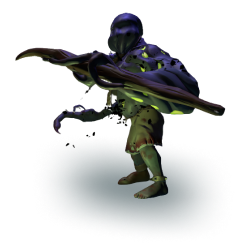
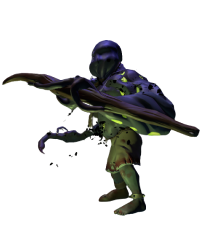
update page font

diff --git a/src/components/sections/Roadmap/Roadmap.tsx b/src/components/sections/Roadmap/Roadmap.tsx
@@ -62,13 +62,13 @@ const road: {year: string, items: IRoad[]}[] = [
 const Roadmap = () => {
   return (
     <div data-aos="fade-up" className="flex flex-col justify-center w-full my-24 px-4 md:pl-0" id={HeaderLink.ROADMAP}>
-      <Text type="h2" className="text-center">Roadmap</Text>
+      <Text type="h2" className="text-center" font="stoke">Roadmap</Text>
       <div className={styles.container + " flex mt-10 w-full"}>
         {road.map(({year, items}, i) => (
           <div key={i} className="mb-14 flex flex-col items-start self-start w-full md:w-auto">
             <div className="flex items-center">
               <div className={styles.line} style={{transform: 'rotate(180deg)'}}/>
-              <Text type="h4" className="mx-4">{year}</Text>
+              <Text type="h4" className="mx-4" font="stoke">{year}</Text>
               <div className={styles.line}/>
             </div>
             {items.map((item, j) => (
@@ -79,9 +79,9 @@ const Roadmap = () => {
                   </div>
                 </div>
                 <div className="flex items-baseline ">
-                  <Text type="h5" fontWeight={700} color="#8A978C" className="mr-1 max-w-full lg:max-w-sm xl:max-w-md">
+                  <Text type="h5" fontWeight={700} font="stoke" color="#8A978C" className="mr-1 max-w-full lg:max-w-sm xl:max-w-md">
                     {item.step}
-                    <Text fontWeight={400} color="#FFFFFF" isSpan={true}>— {item.description}</Text>
+                    <Text fontWeight={400} font="poppins" color="#FFFFFF" isSpan={true}>— {item.description}</Text>
                   </Text>
                 </div>
               </div>

diff --git a/src/components/sections/Team/Team.tsx b/src/components/sections/Team/Team.tsx
@@ -26,7 +26,7 @@ const data: ITeamMember[] = [
 const Team = () => {
   return (
     <div data-aos="fade-up" className="flex flex-col justify-start w-full pb-36 huge:pb-20" id={HeaderLink.TEAM}>
-      <Text type="h2" className="w-full justify-center text-center mb-10">Team</Text>
+      <Text type="h2" className="w-full justify-center text-center mb-10" font="stoke">Team</Text>
       <div className="flex sm:flex-wrap justify-center md:justify-around  xl:justify-center mx-auto flex-col w-full items-center sm:flex-row">
         {data.map((item, i) => (
           <div key={i} className="flex flex-col w-80 md:w-48 xl:w-52 md:self-start items-center text-center mb-10 sm:mx-2">
@@ -38,9 +38,9 @@ const Team = () => {
                 </a>
               )}
             </div>
-            <Text type="h4" className="mb-2 uppercase font-bold">{item.name}</Text>
-            <Text type="h5" className="mb-2 flex justify-start ">{item.role}</Text>
-            <Text fontSize={"0.8125rem"} lineHeight="1.25rem" color="white" className="min-h-20 md:h-40">{item.description}</Text>
+            <Text type="h4" className="mb-2 uppercase font-bold" font="stoke">{item.name}</Text>
+            <Text type="h5" className="mb-2 flex justify-start " font="stoke">{item.role}</Text>
+            <Text fontSize={"0.8125rem"} lineHeight="1.25rem" color="white" font="poppins" className="min-h-20 md:h-40">{item.description}</Text>
           </div>
         ))}
       </div>

diff --git a/src/components/sections/Roadmap/styles.module.css b/src/components/sections/Roadmap/styles.module.css
@@ -37,11 +37,10 @@
 .line {
     width: 46px;
     height: 3px;
-    background: -webkit-gradient(linear, left top, right top, color-stop(0%, #8A978C), color-stop(100%, #000000));
-    background: -moz-linear-gradient(left, #8A978C 0%, #000000 100%);
-    background: -webkit-linear-gradient(left, #8A978C 0%, #000000 100%);
-    background: -o-linear-gradient(left, #8A978C 0%, #000000 100%);
-    background: -ms-linear-gradient(left, #8A978C 0%, #000000 100%);
-    background: linear-gradient(to right, #8A978C 0%, #000000 100%);
+    background: -webkit-gradient(linear, left top, right top, color-stop(0%, #35CFD5), color-stop(100%, #0D1420));
+    background: -moz-linear-gradient(left, #35CFD5 0%, #0D1420 100%);
+    background: -webkit-linear-gradient(left, #35CFD5 0%, #0D1420 100%);
+    background: -o-linear-gradient(left, #35CFD5 0%, #0D1420 100%);
+    background: -ms-linear-gradient(left, #35CFD5 0%, #0D1420 100%);
+    background: linear-gradient(to right, #35CFD5 0%, #0D1420 100%);
 }
-

diff --git a/src/components/sections/ArmySwiper/ArmySwiper.tsx b/src/components/sections/ArmySwiper/ArmySwiper.tsx
@@ -45,11 +45,11 @@ const ArmySwiper = () => {
       className={styles.swiper + " max-w-full"}
     >
       {army.map((monster, i) => (
-        <SwiperSlide className={styles.slide}>
+        <SwiperSlide className={styles.slide + " w-1/6"}>
           <div className={styles.monster_card}>
             <div key={i} className= {styles.card_inner + " flex flex-col items-center justify-center"}>
               <div className={styles.img_frame}>
-                <img className={styles.img + " absolute"} src={monster.src} />
+                <img className={styles.img + " absolute "} src={monster.src} />
               </div>
               <Text type="h5" font="stoke" className="text-center uppercase">
                 {monster.title}

diff --git a/src/components/sections/Partners/Partners.tsx b/src/components/sections/Partners/Partners.tsx
@@ -12,7 +12,7 @@ const data = [
 const Partners = () => {
   return (
     <div data-aos="fade-up" className="flex flex-col justify-start w-full px-12 py-5" id={HeaderLink.PARTNERS}>
-      <Text type="h2" className="w-full justify-center text-center mb-10">Partners</Text>
+      <Text type="h2" className="w-full justify-center text-center mb-10" font="stoke">Partners</Text>
       <div className="flex w-full justify-center flex-col items-center md:flex-row">
         {data.map((item, i) => (
           <a href={item.url} key={i} target="_blank" className={styles.root + " flex flex-col px-4 py-4 w-80 md:w-64 md:w-72 mb-10 h-24 md:h-auto md:self-stretch" + (i === 0 ? ' ' : ' md:ml-6 lg:ml-12')}>

diff --git a/src/components/sections/ArmySwiper/styles.module.css b/src/components/sections/ArmySwiper/styles.module.css
@@ -5,7 +5,7 @@
 }
 
 .img {
-    top: 40%;
+    top: 45%;
     left: 50%;
     transform: translate(-50%,-50%);
 }
@@ -40,11 +40,13 @@
 
 .slide:hover {
     opacity: 1;
+    z-index: 30;
 }
 
 .swiper {
     overflow: unset !important;
  
 }
+
 
 

diff --git a/src/components/common/Text/Text.tsx b/src/components/common/Text/Text.tsx
@@ -7,7 +7,7 @@ interface IProps {
   onClick?(): void;
   isLink?: boolean;
   isSpan?: boolean;
-  font?: "stoke";
+  font?: "stoke" | "poppins";
 }
 
 const Text = (props: React.PropsWithChildren<IProps & React.CSSProperties>) => {

diff --git a/src/components/common/Text/styles.module.css b/src/components/common/Text/styles.module.css
@@ -33,6 +33,10 @@
     font-weight: 400;
 }
 
+.poppins {
+    font-family: "Poppins";
+}
+
 .link:hover {
     cursor: pointer;
     color: #6bd6e0;
